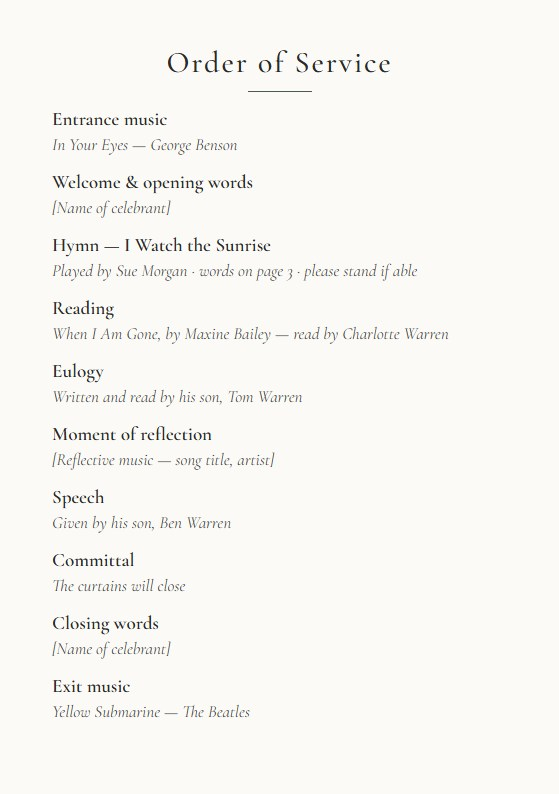
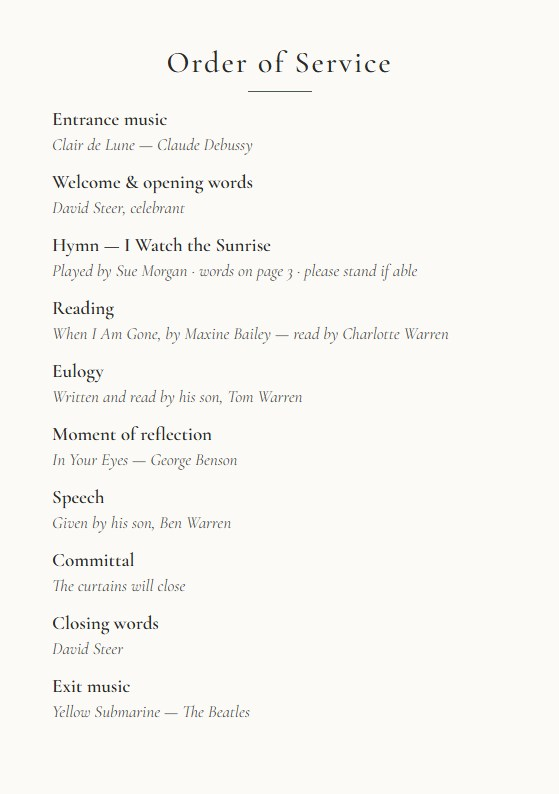
Celebrant, music and new photo collage on the drafts

diff --git a/index.html b/index.html
@@ -326,12 +326,12 @@ if(location.hash==="#drafts")show("drafts");
 /* ---- drafts ---- */
 const DRAFTS=[
  ["Order of service","p1","Page 1 · Front cover","drafts/Ivor-1-front-cover.jpg?v=10"],
- ["Order of service","p2","Page 2 · Order of service","drafts/Ivor-2-order-of-service.jpg?v=13"],
+ ["Order of service","p2","Page 2 · Order of service","drafts/Ivor-2-order-of-service.jpg?v=14"],
  ["Order of service","p3","Page 3 · Hymn and reading","drafts/Ivor-3-hymn.jpg?v=12"],
  ["Order of service","p5","Page 4 · Eulogy","drafts/Ivor-5-about-ivor.jpg?v=9"],
  ["Order of service","p6","Page 5 · Remembering Ivor","drafts/Ivor-6-photos.jpg?v=10"],
- ["Order of service","col","Page 6 · Photo collage","drafts/Ivor-7-collage.jpg?v=10"],
- ["Order of service","p7","Page 7 · Thank you and afterwards","drafts/Ivor-7-thank-you.jpg?v=6"],
+ ["Order of service","col","Page 6 · Photo collage","drafts/Ivor-7-collage.jpg?v=11"],
+ ["Order of service","p7","Page 7 · Thank you and afterwards","drafts/Ivor-7-thank-you.jpg?v=7"],
  ["Order of service","p8","Page 8 · Back cover","drafts/Ivor-8-back-cover.jpg?v=2"],
  ["Invitations and cards","inv","Invitation (funeral and wake)","drafts/Ivor-funeral-invitation.jpg?v=15"],
  ["Invitations and cards","board","Wake welcome board","drafts/Ivor-wake-welcome-board.jpg?v=10"],
